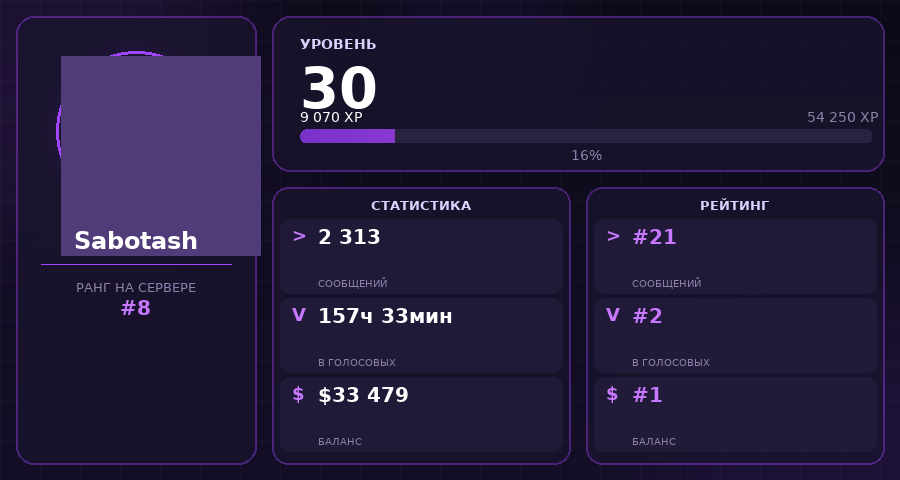
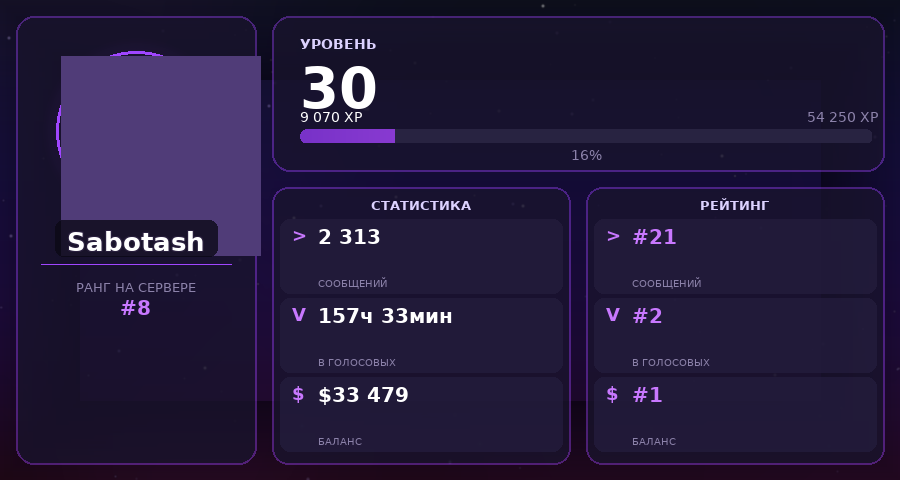
Profile: реальный фон + контрастный никнейм
- assets/profile_bg.png: красивый фон (неон, bokeh, звёзды, виньетка)
- Никнейм: тёмная подложка + обводка текста (не сливается)
- Шрифт никнейма увеличен до 26px

diff --git a/cogs/profile.py b/cogs/profile.py
@@ -101,33 +101,23 @@ def _progress_bar(w, h, progress):
 
 
 def _generate_bg(w, h):
-    """Генерация фонового изображения"""
-    img = Image.new('RGBA', (w, h), (12, 10, 24, 255))
-    draw = ImageDraw.Draw(img)
-
-    # Градиент сверху-вниз
-    for y in range(h):
-        t = y / h
-        r = int(12 + 8 * t)
-        g = int(10 + 5 * t)
-        b = int(24 + 15 * t)
-        draw.line([(0, y), (w, y)], fill=(r, g, b, 255))
-
-    # Неоновые свечения
-    img = _glow(img, (-80, -80, 300, 300), NEON, 80)
-    img = _glow(img, (600, 250, 1000, 600), NEON_DIM, 70)
-    img = _glow(img, (350, -50, 600, 150), (80, 40, 160), 50)
-
-    # Тонкая сетка
-    grid_overlay = Image.new('RGBA', (w, h), (0, 0, 0, 0))
-    gd = ImageDraw.Draw(grid_overlay)
-    for x in range(0, w, 40):
-        gd.line([(x, 0), (x, h)], fill=(255, 255, 255, 6), width=1)
-    for y in range(0, h, 40):
-        gd.line([(0, y), (w, y)], fill=(255, 255, 255, 6), width=1)
-    img = Image.alpha_composite(img, grid_overlay)
-
-    return img
+    """Загрузить фоновое изображение или сгенерировать"""
+    bg_path = os.path.join(os.path.dirname(__file__), '..', 'assets', 'profile_bg.png')
+    try:
+        bg = Image.open(bg_path).convert('RGBA')
+        bg = bg.resize((w, h), Image.Resampling.LANCZOS)
+        return bg
+    except Exception:
+        # Fallback: простой градиент
+        img = Image.new('RGBA', (w, h), (12, 10, 24, 255))
+        draw = ImageDraw.Draw(img)
+        for y in range(h):
+            t = y / h
+            r = int(12 + 8 * t)
+            g = int(10 + 5 * t)
+            b = int(24 + 15 * t)
+            draw.line([(0, y), (w, y)], fill=(r, g, b, 255))
+        return img
 
 
 async def _download_avatar(url, size=200):
@@ -216,10 +206,30 @@ def generate_profile_card(
     # Аватар
     img.paste(avatar, (av_x, av_y), avatar)
 
-    # Никнейм
-    f_nick = _font(bold=True, size=24)
-    nick_x = _text_center_x(draw, nickname, f_nick, lx, lx + LEFT_W)
+    # Никнейм — с тёмной подложкой для контраста
+    f_nick = _font(bold=True, size=26)
+    # Подложка (backdrop)
+    nick_bbox = draw.textbbox((0, 0), nickname, font=f_nick)
+    nick_tw = nick_bbox[2] - nick_bbox[0]
+    nick_th = nick_bbox[3] - nick_bbox[1]
     nick_y = av_y + av_size + 20
+    nick_x = lx + (LEFT_W - nick_tw) // 2
+    # Рисуем тёмный прямоугольник за текстом
+    pad_x, pad_y = 12, 6
+    backdrop = Image.new('RGBA', (W, H), (0, 0, 0, 0))
+    bd = ImageDraw.Draw(backdrop)
+    bd.rounded_rectangle(
+        (nick_x - pad_x, nick_y - pad_y, nick_x + nick_tw + pad_x, nick_y + nick_th + pad_y + 4),
+        radius=8, fill=(10, 8, 20, 200)
+    )
+    img = Image.alpha_composite(img, backdrop)
+    draw = ImageDraw.Draw(img)
+    # Обводка текста
+    for ox in [-1, 0, 1]:
+        for oy in [-1, 0, 1]:
+            if ox == 0 and oy == 0:
+                continue
+            draw.text((nick_x + ox, nick_y + oy), nickname, fill=(40, 30, 60), font=f_nick)
     draw.text((nick_x, nick_y), nickname, fill=WHITE, font=f_nick)
 
     # Разделитель
